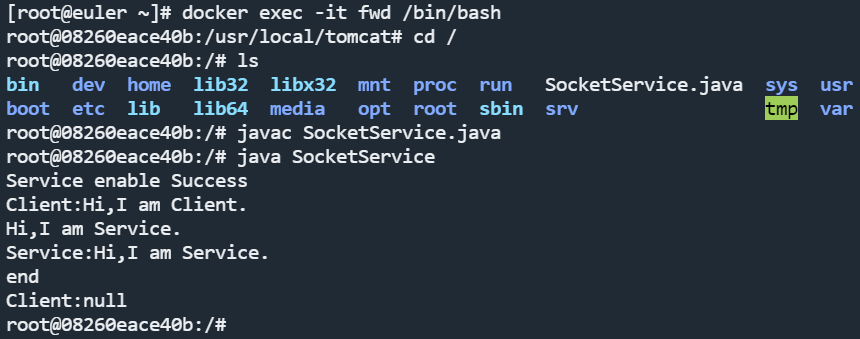
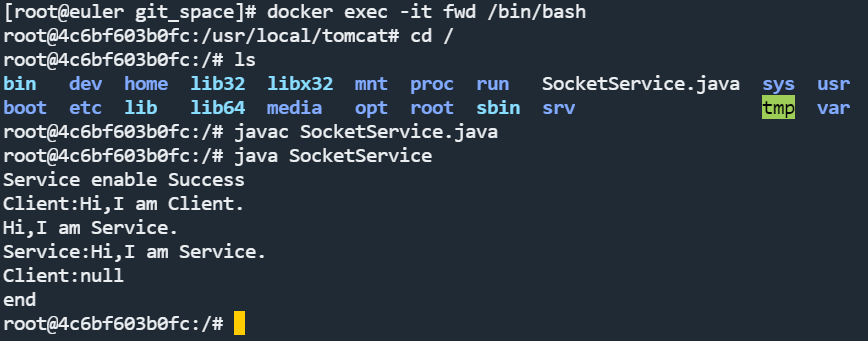
update

Changed region(s): [[0.0, 0.0, 0.9977, 1.0]]

diff --git a/posts/linux期末大作业/index.html b/posts/linux期末大作业/index.html
@@ -54,8 +54,8 @@
  Ps:如果git push -u origin &quot;main&quot;运行不成功，可以先运行代码git remote set-url origin git@github." />
 <meta property="og:type" content="article" />
 <meta property="og:url" content="http://192.168.92.132/posts/linux%E6%9C%9F%E6%9C%AB%E5%A4%A7%E4%BD%9C%E4%B8%9A/" />
-<meta property="article:published_time" content="2023-01-04T00:00:34+08:00" />
-<meta property="article:modified_time" content="2023-01-04T00:00:34+08:00" />
+<meta property="article:published_time" content="2023-01-04T16:47:18+08:00" />
+<meta property="article:modified_time" content="2023-01-04T16:47:18+08:00" />
 
 
 
@@ -179,6 +179,8 @@
     <li><a href="#安装配置git">安装配置Git</a></li>
     <li><a href="#使用docker和socket技术使客户端和服务端之间的信息传递">使用docker和socket技术使客户端和服务端之间的信息传递</a></li>
     <li><a href="#安装hugo并创建静态网站">安装hugo并创建静态网站</a></li>
+    <li><a href="#运用nginx技术部署静态网站到web服务器">运用nginx技术部署静态网站到web服务器</a></li>
+    <li><a href="#将hugo静态网页部署到github上在公网上访问">将hugo静态网页部署到github上，在公网上访问</a></li>
   </ul>
 </nav>
     </div>
@@ -327,8 +329,7 @@
                         <span style="color:#66d9ef">try</span><span style="color:#f92672">{</span>
                                 server <span style="color:#f92672">=</span> <span style="color:#66d9ef">new</span> ServerSocket<span style="color:#f92672">(</span>2002<span style="color:#f92672">);</span>
                                 System<span style="color:#f92672">.</span><span style="color:#a6e22e">out</span><span style="color:#f92672">.</span><span style="color:#a6e22e">println</span><span style="color:#f92672">(</span><span style="color:#e6db74">&#34;Service enable Success&#34;</span><span style="color:#f92672">);}</span>
-                        <span style="color:#66d9ef">catch</span><span style="color:#f92672">(</span>Exception e<span style="color:#f92672">){</span>System<span style="color:#f92672">.</span><span style="color:#a6e22e">out</span><span style="color:#f92672">.</span><span style="color:#a6e22e">println</span><span style="color:#f92672">(</span><span style="color:#e6db74">&#34;No Listen:&#34;</span> <span style="color:#f92672">+</span> e<span style="color:#f92672">);}</span>
-                        Socket socket <span style="color:#f92672">=</span> <span style="color:#66d9ef">null</span><span style="color:#f92672">;</span>
+                        <span style="color:#66d9ef">catch</span><span style="color:#f92672">(</span>Exception e<span style="color:#f92672">){</span>System<span style="color:#f92672">.</span><span style="color:#a6e22e">out</span><span style="color:#f92672">.</span><span style="color:#a6e22e">println</span><span style="color:#f92672">(</span><span style="color:#e6db74">&#34;No Listen:&#34;</span> <span style="color:#f92672">+</span> e<span style="color:#f92672">);}</span>                        Socket socket <span style="color:#f92672">=</span> <span style="color:#66d9ef">null</span><span style="color:#f92672">;</span>
                         <span style="color:#66d9ef">try</span><span style="color:#f92672">{</span>socket <span style="color:#f92672">=</span> server<span style="color:#f92672">.</span><span style="color:#a6e22e">accept</span><span style="color:#f92672">();}</span>
                         <span style="color:#66d9ef">catch</span><span style="color:#f92672">(</span>Exception e<span style="color:#f92672">){</span>System<span style="color:#f92672">.</span><span style="color:#a6e22e">out</span><span style="color:#f92672">.</span><span style="color:#a6e22e">println</span><span style="color:#f92672">(</span><span style="color:#e6db74">&#34;Error.&#34;</span> <span style="color:#f92672">+</span> e<span style="color:#f92672">);}</span>
                         String line<span style="color:#f92672">;</span>
@@ -412,11 +413,37 @@
 <blockquote>
 <p><code>docker cp SocketClient.java khd:/</code></p>
 </blockquote>
-<p>（7）进入服务器的容器和客户端的容器，然后启动服务器端和客户端程序，开始通信：</p>
+<p>（7）进入服务器的容器和客户端的容器，然后启动服务端和客户端程序，开始通信：</p>
+<p>服务端命令：</p>
+<blockquote>
+<p><code>docker exec -it fwd /bin/bash</code></p>
+</blockquote>
+<blockquote>
+<p><code>cd /</code></p>
+</blockquote>
+<blockquote>
+<p><code>javac SocketService.java</code></p>
+</blockquote>
+<blockquote>
+<p><code>java SocketService</code></p>
+</blockquote>
 <blockquote>
 <blockquote>
 <p><img src="/img/%E5%9B%BE%E7%89%874.png" alt=""></p>
 </blockquote>
+</blockquote>
+<p>客户端命令：</p>
+<blockquote>
+<p><code>docker exec -it khd /bin/bash</code></p>
+</blockquote>
+<blockquote>
+<p><code>cd /</code></p>
+</blockquote>
+<blockquote>
+<p><code>javac SocketClient.java</code></p>
+</blockquote>
+<blockquote>
+<p><code>java SocketClient</code></p>
 </blockquote>
 <blockquote>
 <blockquote>
@@ -540,6 +567,9 @@
 </blockquote>
 <p>（2）编写文章：</p>
 <blockquote>
+<p><code>vim content/posts/Linux期末大作业.md</code></p>
+</blockquote>
+<blockquote>
 <blockquote>
 <p><img src="/img/%E5%9B%BE%E7%89%876.png" alt=""></p>
 </blockquote>
@@ -549,7 +579,7 @@
 <p><code>hugo -D</code></p>
 </blockquote>
 <hr>
-<p><strong>3.运用nginx技术部署静态网站到web服务器</strong></p>
+<h2 id="运用nginx技术部署静态网站到web服务器">运用nginx技术部署静态网站到web服务器</h2>
 <p>（1）下载并解压nginx包：</p>
 <blockquote>
 <p><code>wget http://nginx.org/download/nginx-1.23.3.tar.gz</code></p>
@@ -623,7 +653,7 @@
 </blockquote>
 </blockquote>
 <hr>
-<p><strong>4.将hugo静态网页部署到github上，在公网上访问</strong></p>
+<h2 id="将hugo静态网页部署到github上在公网上访问">将hugo静态网页部署到github上，在公网上访问</h2>
 <p>（1）新建<code>Liujiayi2.github.io</code>作为存储库名称：</p>
 <blockquote>
 <blockquote>
@@ -651,7 +681,7 @@
 <p><img src="/img/%E5%9B%BE%E7%89%8711.png" alt=""></p>
 </blockquote>
 </blockquote>
-<p>（3）在<code>Liujiayi2.github.io</code>下，单击 <code>Settings</code>，然后在边栏单击<code>页面</code>，选择<code>Deploy from a branch</code>和<code>None</code>，单击<code>Save</code>：</p>
+<p>（3）在<code>Liujiayi2.github.io</code>下，单击 <code>Settings</code>，然后在边栏单击<code>页面</code>，选择<code>Deploy from a branch</code>和<code>None</code>，单击<code>Save</code>：</p>
 <blockquote>
 <blockquote>
 <p><img src="/img/%E5%9B%BE%E7%89%8712.png" alt=""></p>

diff --git a/categories/category1/index.html b/categories/category1/index.html
@@ -24,7 +24,7 @@
 <meta property="og:description" content="" />
 <meta property="og:type" content="website" />
 <meta property="og:url" content="http://192.168.92.132/categories/category1/" />
-<meta property="og:updated_time" content="2023-01-04T00:00:34+08:00" />
+<meta property="og:updated_time" content="2023-01-04T16:47:18+08:00" />
 
 
 

diff --git a/categories/index.html b/categories/index.html
@@ -24,7 +24,7 @@
 <meta property="og:description" content="" />
 <meta property="og:type" content="website" />
 <meta property="og:url" content="http://192.168.92.132/categories/" />
-<meta property="og:updated_time" content="2023-01-04T00:00:34+08:00" />
+<meta property="og:updated_time" content="2023-01-04T16:47:18+08:00" />
 
 
 

diff --git a/posts/index.html b/posts/index.html
@@ -24,7 +24,7 @@
 <meta property="og:description" content="" />
 <meta property="og:type" content="website" />
 <meta property="og:url" content="http://192.168.92.132/posts/" />
-<meta property="og:updated_time" content="2023-01-04T00:00:34+08:00" />
+<meta property="og:updated_time" content="2023-01-04T16:47:18+08:00" />
 
 
 

diff --git a/tags/index.html b/tags/index.html
@@ -24,7 +24,7 @@
 <meta property="og:description" content="" />
 <meta property="og:type" content="website" />
 <meta property="og:url" content="http://192.168.92.132/tags/" />
-<meta property="og:updated_time" content="2023-01-04T00:00:34+08:00" />
+<meta property="og:updated_time" content="2023-01-04T16:47:18+08:00" />
 
 
 

diff --git a/index.html b/index.html
@@ -24,7 +24,7 @@
 <meta property="og:description" content="" />
 <meta property="og:type" content="website" />
 <meta property="og:url" content="http://192.168.92.132/" />
-<meta property="og:updated_time" content="2023-01-04T00:00:34+08:00" />
+<meta property="og:updated_time" content="2023-01-04T16:47:18+08:00" />
 
 
 
